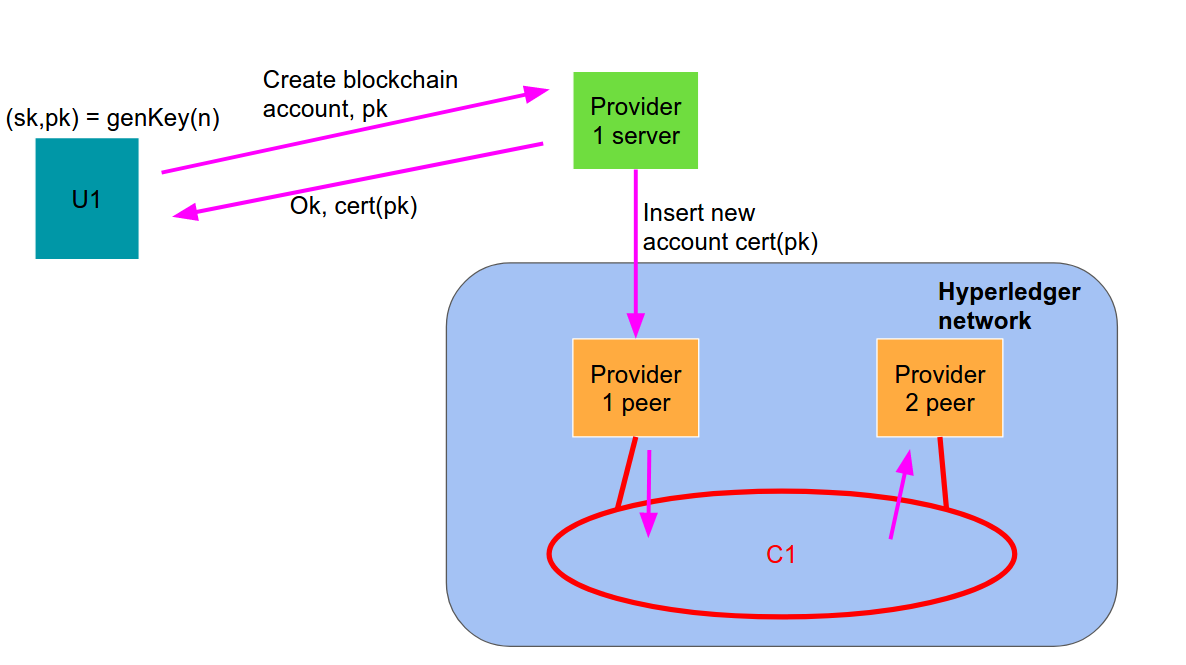
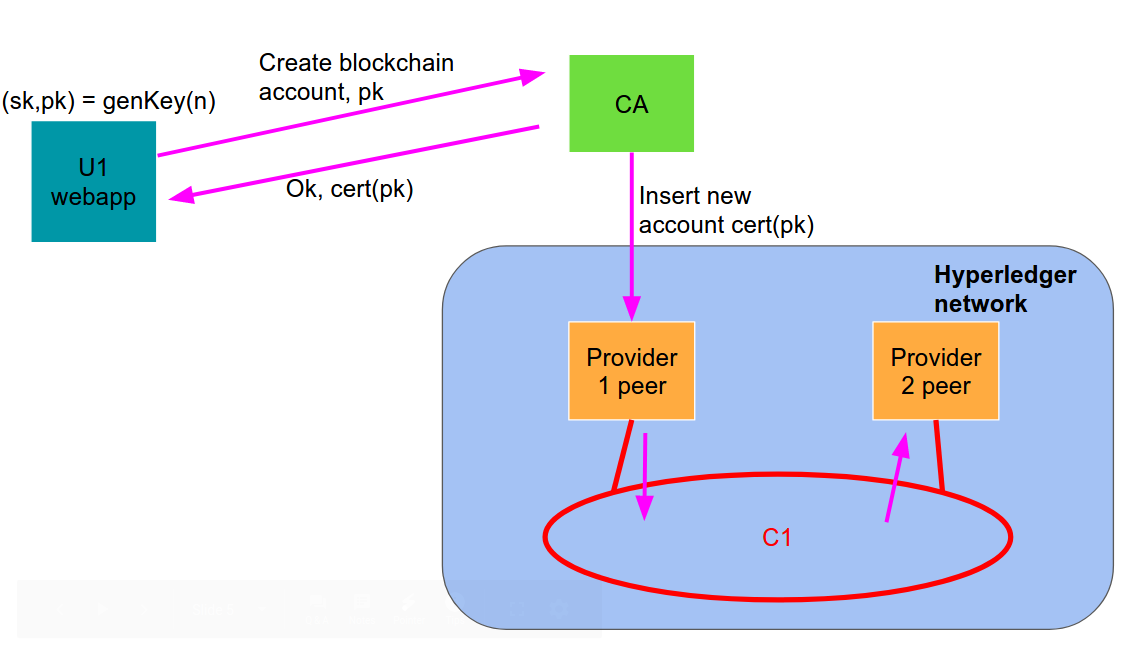
daje

Changed region(s): [[0.0, 0.0618, 0.9756, 0.9892], [0.3659, 0.4328, 0.4268, 0.9892], [0.6402, 0.8037, 0.7012, 0.8655]]

diff --git a/docs/Design.md b/docs/Design.md
@@ -37,12 +37,6 @@ When a user wants to accept an offer from the ledger, it queries the offers smar
 
 ### Service provider side
 
-- Register to the network page
-The service provider will have to implement a register to the network page where users can generate their couple (sk,pk) and get a certificate that identifies them into the blockchain network.
-
-![Registration](../img/registration.png "Registration")
-
-
 - Link account page
 This page will allow users to publish their ownership of a "normal" account of a Service Provider to the blockchain network, linking it to their public key. The user will have to send a signature to prove that he own the sk related to his pk. The SP will have to modify his internal database in order to link the "normal" account to the Hyperledger certificate.
 
@@ -56,20 +50,29 @@ This will be an additional button (Like "login with google") that the user will 
 
 ### Client side (webapp)
 
+- Register to the network page
+The service provider will have to implement a register to the network page where users can generate their couple (sk,pk) and get a certificate that identifies them into the blockchain network.
+
 The client side webapp will handle the wallet of the user and provide a graphical interface in order connect to the blockchain and perform the operation specified in the network design.
+The application will also handle the payments to the blockchain network
 Operations:
 - retrieve all offers
 - accept an offer
 - insert a new offer
+- perform payment (monthly fee, buy currency)
 
 ![Webapp](../img/webapp.png "Webapp")
+
+The webapp will also handle the registration to the blockchain network. When a new user enrolls via the webapp it creates the key pair (sk,pk), connect to the CA of the network, and get a certificate that identifies them into the blockchain network.
+
+![Registration](../img/registration.png "Registration")
 
 
 ## Chaincode design
 - subscription world state
 
 It is used to keep track of the owner of a certain subscription for a determined period of time. The update of the world state happens when a User subscribes to a new service outside the network or when a user rents an existing subscription for a fixed time. In the second case the SP will update the ledger removing the time slot from the previous user and adding it to the new one.
-The endorsement policy for this Smart Contract should require that the transaction is signed by the provider of the service itself in case of a new subscription.
+The access control and transaction validation for this Smart Contract should be majority + the service provider that is related to the subscription.
 The methods that needs to be implemented are: new subscription, split subscription, query.
 
 UserId | Provider | SubscriptionId|Duration
@@ -80,12 +83,12 @@ A|Netflick|001|{0: {01/01/2020 00.00,31/12/2020 12.59}, 1: {...,...}}
 
 It will represent the state of the wallet of each user inside the blockchain.
 The endorsement policy will require that at least the majority of the SP share the same result and sign it.
-The function that need to be implemented are: addiction, subtraction and query
+The function that need to be implemented are: addiction, subtraction,query and verifyPayment
 
 
-UserId | amountOfMoney |
----- | ---- |
-A|100|
+UserId | amountOfMoney | LastPaymentDate
+---- | ---- | ---- |
+A|100| 03/09/2020 |
 
 - offers world state
 
@@ -96,6 +99,13 @@ methods: publish,accept,query
 UserId | Provider | SubscriptionId|startTime|endTime | price
 ---- | ---- | ---- | ---- | ---- | ----
 A|Netflick|001|07/07/2020 13.00 |07/07/2020 14.00 | 50 HC
+
+### Common payment design
+
+There will be a common payment account (bank account or ethereum account) where users will deposit their money when paying to the network.
+In order to claim the assets the client will invoke a transaction where he will provide a proof of payment. The peers will verify that the payment has been actually performed and will grant the assets on the blockchain.
+
+![Payment](../img/payments.png "Payment")
 
 ## Economic returns
 The use of the network will require the payment of a monthly fee for all the users. Moreover, each user can buy extra coins to rent subscriptions using real money.  Therefore, to prevent an excess of coin in the network, which would prevent the user from buying new ones, at each transaction is applied a tax.
